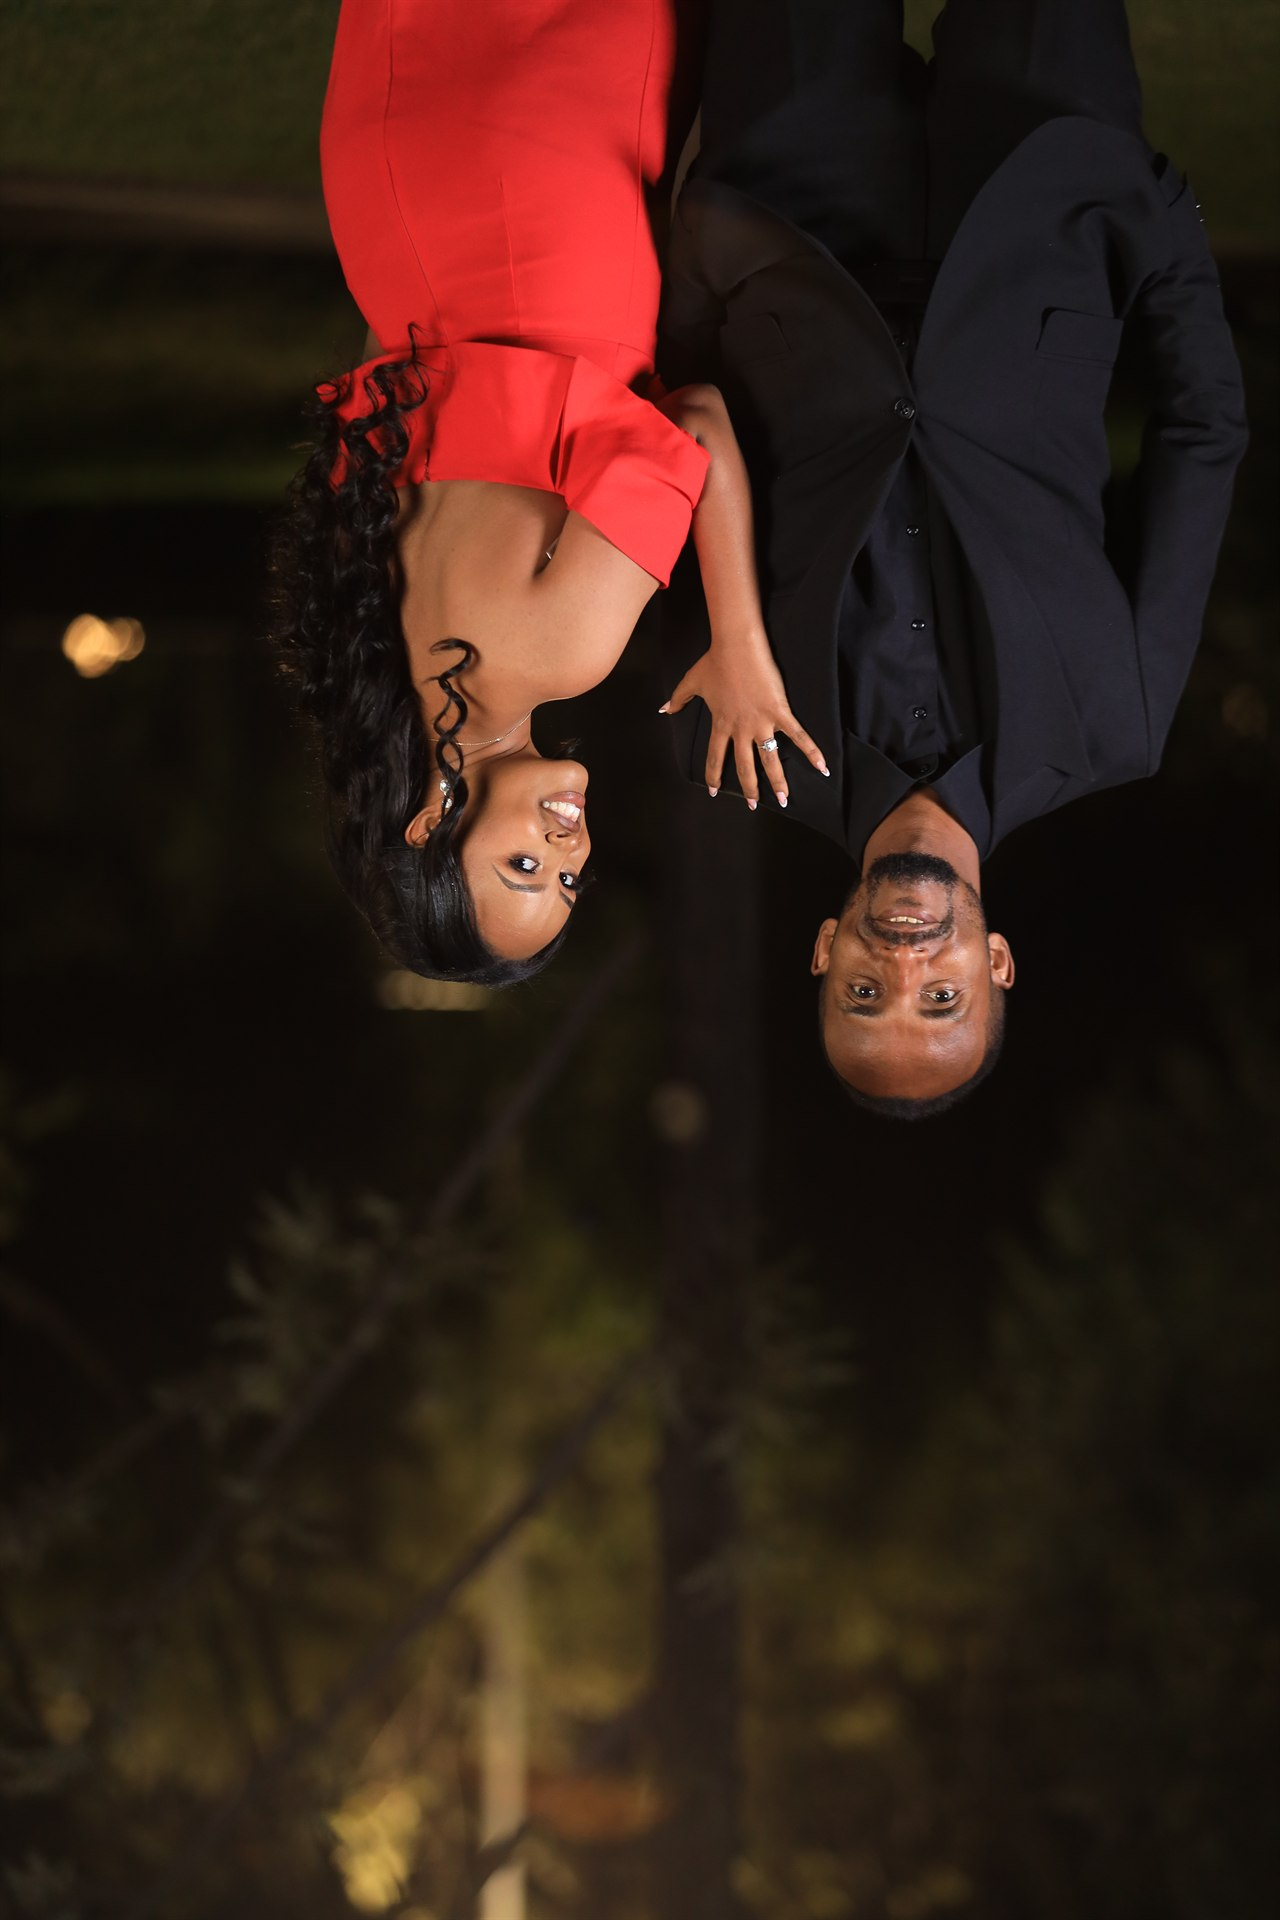
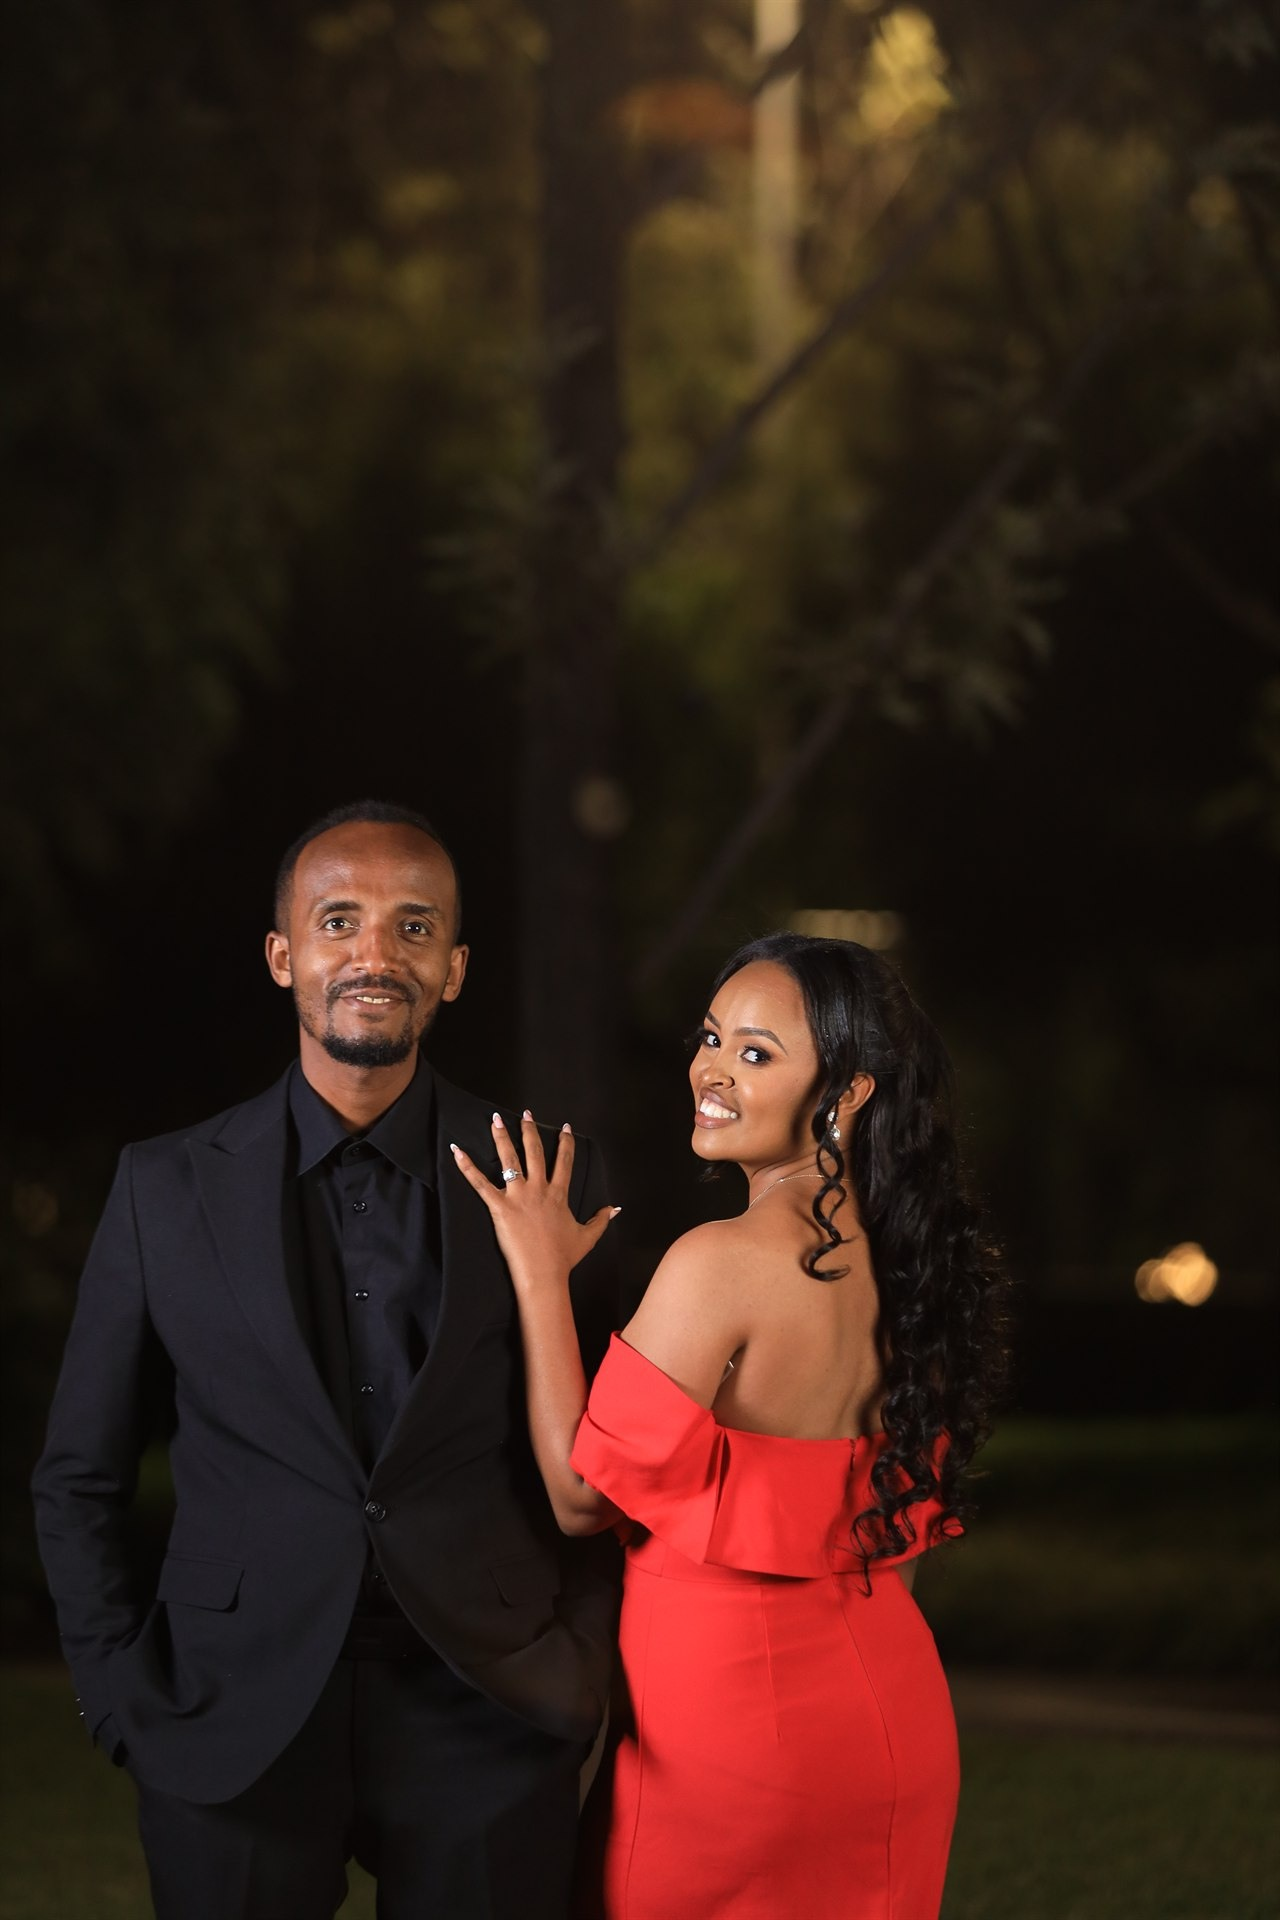
fix(venues): flip ES8A4798 upright and frame full couple in venue cards

diff --git a/src/data/defaultWeddingData.ts b/src/data/defaultWeddingData.ts
@@ -15,7 +15,7 @@ export const initialWeddingData: WeddingData = {
 
   weddingDate: "2026-11-15T15:00:00",
   weddingDateAmharic: "እሑድ፣ ህዳር 6፣ 2019 ዓ.ም (ከ9:00 እስከ 12:00)",
-  weddingLocationCity: "ልደታ መካነየሱስ፣ አዲስ አበባ (Addis Ababa)",
+  weddingLocationCity: "ልደታ መካነ ኢየሱስ፣ አዲስ አበባ (Addis Ababa)",
 
   religiousQuote: "But I trust in your unfailing love; my heart rejoices in your salvation.",
   religiousQuoteAmharic: "እኔ ግን በቸርነትህ ታመንሁ፥ ልቤም በመድኃኒትህ ደስ ይለዋል።",
@@ -70,7 +70,7 @@ export const initialWeddingData: WeddingData = {
       title: "Holy Matrimony & Worship Ceremony",
       titleAmharic: "የቃልኪዳን እና የአምልኮ ጊዜ",
       description: "በእግዚአብሔር ፊት የጋብቻ ቃልኪዳን መፈጸምና የምስጋና አምልኮ ሥነ-ሥርዓት።",
-      location: "ልደታ መካነየሱስ (ከዲአፍሪክ ሆቴል ወረድ ብሎ አምስተኛ ፖሊስ ጣቢያ)",
+      location: "ልደታ መካነ ኢየሱስ (ከዲአፍሪክ ሆቴል ወረድ ብሎ አምስተኛ ፖሊስ ጣቢያ)",
       icon: "Church",
       eventType: "church"
     }
@@ -82,20 +82,22 @@ export const initialWeddingData: WeddingData = {
       name: "Wedding Reception & Lunch",
       nameAmharic: "የምሳ ፕሮግራም",
       tag: "የምሳ እና የደስታ መጋራት (Reception)",
-      address: "📍አቃቂ አለም ባንክ እና ሙያ ቴክኒክ በስተግራ በሚወስደው መንገድ ወደታች ወረድ ብሎ፣ አዲስ አበባ",
+      address: "📍አቃቂ አለም ባንክ ፡ አቃቂ ቴክኒክ እና ሙያ አደባባይ በስተግራ በሚወስደው መንገድ ወደታች ወረድ ብሎ",
       time: "ከ5:00 እስከ 8:30 (11:00 AM - 02:30 PM)",
       imageUrl: "/images/ES8A4798.JPG",
+      imagePosition: "center 68%",
       googleMapsUrl: "https://maps.google.com/?q=Akaki+Alem+Bank+Addis+Ababa",
       eventType: "reception"
     },
     {
       id: "ven-2",
       name: "Lideta Mekane Yesus Church",
-      nameAmharic: "ልደታ መካነየሱስ",
+      nameAmharic: "ልደታ መካነ ኢየሱስ",
       tag: "የቃልኪዳን እና የአምልኮ ጊዜ (Ceremony)",
       address: "📍ከዲአፍሪክ ሆቴል ወረድ ብሎ አምስተኛ ፖሊስ ጣቢያ አካባቢ፣ አዲስአበባ, ኢትዮጵያ",
       time: "ከ9:00 እስከ 12:00 (03:00 PM - 06:00 PM)",
-      imageUrl: "/images/ethiopian_couple_holding_hands.jpg",
+      imageUrl: "/images/ethiopian_couple_holding_hands.JPG",
+      imagePosition: "center 65%",
       googleMapsUrl: "https://maps.google.com/?q=Lideta+Mekane+Yesus+Church+Addis+Ababa",
       coordinates: { lat: 9.0125, lng: 38.7410 },
       eventType: "church"
@@ -317,5 +319,5 @@ export const initialWeddingData: WeddingData = {
   storyCardTransitionDuration: 0.75,
   storyCardAutoAdvance: true,
   storyCardPauseOnHover: true,
-  dataVersion: 6,
+  dataVersion: 7,
 };

diff --git a/src/components/venues/VenuesSection.tsx b/src/components/venues/VenuesSection.tsx
@@ -62,16 +62,19 @@ export const VenuesSection: React.FC = () => {
               className="rounded-2xl overflow-hidden border shadow-2xl flex flex-col group transition-all"
             >
               {/* Venue Image */}
-              <div className="relative h-48 sm:h-56 overflow-hidden">
+              <div className="relative h-72 sm:h-80 md:h-96 overflow-hidden">
                 <div
-                  className="absolute inset-0 bg-cover bg-[center_20%] group-hover:scale-105 transition-transform duration-700 filter brightness-90"
-                  style={{ backgroundImage: `url(${venue.imageUrl})` }}
+                  className="absolute inset-0 bg-cover group-hover:scale-105 transition-transform duration-700"
+                  style={{
+                    backgroundImage: `url(${venue.imageUrl})`,
+                    backgroundPosition: venue.imagePosition || 'center 65%',
+                  }}
                 />
                 <div
                   style={{
-                    background: `linear-gradient(to top, ${activeTheme.cardBgHex} 0%, transparent 60%, rgba(0,0,0,0.4) 100%)`,
+                    background: `linear-gradient(to top, ${activeTheme.cardBgHex} 0%, ${activeTheme.cardBgHex}60 12%, transparent 28%)`,
                   }}
-                  className="absolute inset-0"
+                  className="absolute inset-0 pointer-events-none"
                 />
                 
                 {/* Event Tag */}
@@ -148,7 +151,7 @@ export const VenuesSection: React.FC = () => {
               borderColor: activeTheme.cardBorderHex,
               boxShadow: `0 20px 45px rgba(0,0,0,0.7), 0 0 20px ${activeTheme.glowColor}`,
             }}
-            className={`rounded-2xl overflow-hidden border shadow-2xl flex flex-col min-h-[420px] relative group transition-all ${
+            className={`rounded-2xl overflow-hidden border shadow-2xl flex flex-col min-h-[460px] lg:min-h-full relative group transition-all ${
               visibleVenues.length > 1 ? 'lg:col-span-2' : ''
             }`}
           >

diff --git a/src/types/wedding.ts b/src/types/wedding.ts
@@ -66,6 +66,7 @@ export interface VenueItem {
   address: string;
   time: string;
   imageUrl: string;
+  imagePosition?: string;
   googleMapsUrl: string;
   coordinates?: { lat: number; lng: number };
   eventType?: EventType;
